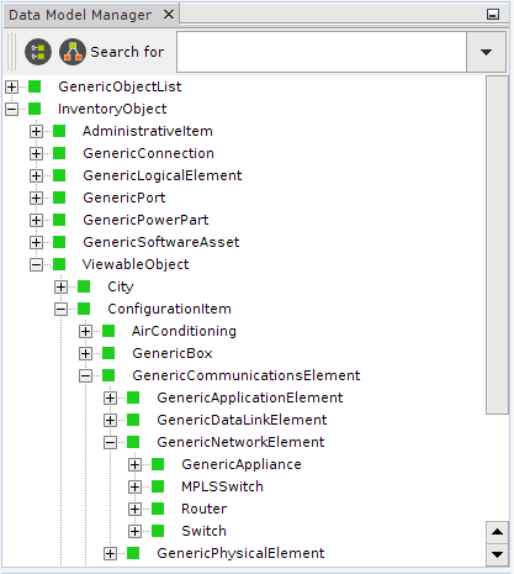
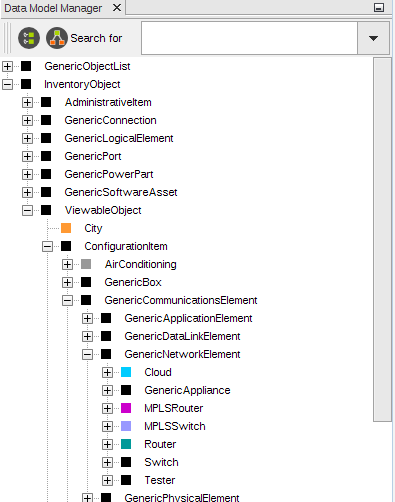
Added documentation for concatenated virtual circuits, grouped actions, commitOnExecute for tasks. Some screenshots updated. Some typos fixed

Changed region(s): [[0.0, 0.0, 1.0, 1.0]]

diff --git a/docs/user_manual/user_manual.tex b/docs/user_manual/user_manual.tex
@@ -5,7 +5,7 @@
 %Metadata
 \title{Kuwaiba Open Network Inventory User's Manual}
 \author{Neotropic SAS}
-\date{21.08.2017}
+\date{15.01.2018}
 
 %Imports
 \usepackage{graphicx}
@@ -33,7 +33,7 @@
 	
 	
 	\begin{figure}[b]
-		\centering System Version \textbf{1.5}
+		\centering System Version \textbf{1.6}
 			
 		Visit \url{http://www.kuwaiba.org} for documentation, latest updates and upcoming events
 	\end{figure}
@@ -84,6 +84,8 @@
 				June 1st 2017 & Added documentation for Bookmarks, Update Center, Projects and new functions in the Relationship Explorer.\\
 				\midrule
 				June 30th 2017 & Added documentation for New (Multiple), New Special, New Special (Multiple) and New Special from Template actions. Updated documentation for Containment Hierarchy and Template Manager.\\
+				\midrule
+				January 15th 2018 & Adapted for version 1.6 (device layouts, synchronization manager, grouped actions, etc).\\
 				\bottomrule
 			\end{tabular}	
 				
@@ -124,9 +126,9 @@
 		\item \textbf{Other Non-physical:} mostly software-related assets, such as licenses or virtual machines.
 		\item \textbf{Administrative:} These are all those related to administrative tasks, human resources or commercial management. Customers, their services, SLAs (and related parameters like availability or throughput), sales and technical staff assigned to those services, vendors and states belong to this category.
 	\end{itemize}
-	The Kuwaiba desktop client is a set of views (trees, topologies, editors) that allows to put together these elements based on business rules and  user-defined models. Kuwaiba extends the concept of \textbf{CMDB} (Configuration Management Database, a place where you store objects that can hold configuration information or be subject to configuration themselves - so called Configuration Items- and their relationships)  and enables you to perform network design tasks, support capacity management and provisioning workflows and assist field and customer service teams to improve response times.\newline
+	The Kuwaiba desktop client is a set of views (trees, topologies, editors) that allows to put together these elements based on business rules and  user-defined models. Kuwaiba extends the concept of \textbf{CMDB} (Configuration Management Database, a place where you store objects that can hold configuration information or be subject to configuration themselves - so called Configuration Items- and their relationships)  and enables you to perform network design tasks, support capacity management and provisioning work flows and assist field and customer service teams to improve response times.\newline
 	
-	Kuwaiba helps you model your network according to your needs, no matter if you're an ISP, a carrier or just a guy with a large (or small!) IT infrastructure to manage. It's open source, under active development and new models are added every release. You can contribute to the project by providing technical insight on a particular technology, testing, translating or just sending your feedback through forums\footnote{Forums https://sourceforge.net/p/kuwaiba/discussion/} and mailing lists\footnote{mailing lists https://sourceforge.net/p/kuwaiba/mailman/}.
+	Kuwaiba helps you model your network according to your needs, no matter if you're an local ISP, a big carrier or just a guy with a large (or small!) IT infrastructure to manage. It's open source, under active development and new models are added every release. You can contribute to the project by providing technical insight on a particular technology, testing, translating or just sending your feedback through forums\footnote{Forums https://sourceforge.net/p/kuwaiba/discussion/} and mailing lists\footnote{mailing lists https://sourceforge.net/p/kuwaiba/mailman/}.
 	
 	\clearpage
 	\section{Connection to the Server}
@@ -138,7 +140,7 @@
 		\caption{Authentication window}
 		\label{fig:auth_window}
 	\end{figure}
-	The default connection settings should be enough if the server is running on the same computer  as the client. If that's not the case, open the Connection Settings window (figure~\ref{fig:connection_settings}).
+	The default connection settings should be enough if the server is running on the same computer as the client. If that's not the case, open the Connection Settings window (figure~\ref{fig:connection_settings}).
 	\begin{figure}[h!]
 		\centering
 		\includegraphics[width=0.5\linewidth]{img/connection_settings.png}
@@ -148,9 +150,9 @@
 	\begin{itemize}
 		\item \textbf{Server Address} Refers to the server IP address or canonical name.
 		\item \textbf{Server Port} is the port Glassfish (the application server) is listening to.
-		\item \textbf{WSDL Path} is the path within the application server the web service interface definition can be found. Usually this value should remain unchanged.
+		\item \textbf{WSDL Path} is the path within the application server the web service interface definition can be found. In most cases, this value shall remain unchanged.
 		\item \textbf{Protocol} is the transport protocol to be used. By default is HTTP, but is highly recommended to request your administrator to setup a secure connection, otherwise your credentials will be transmitted in plain text over the network.
-		\item \textbf{Disable hostname verification} is disabled by default and applies only to HTTPS connections. If checked, the hostname in the digital certificate does not have to have to match the hostname you've typed in the "Server Address" field. This is useful if, for example, you are trying to connect to a server using its IP address, but the certificate was generated using its FQDN. You won't have to change this option in most cases, unless you are testing.
+		\item \textbf{Disable host name verification} is disabled by default and applies only to HTTPS connections. If checked, the host name in the digital certificate does not have to have to match the host name you've typed in the "Server Address" field. This is useful if, for example, you are trying to connect to a server using its IP address, but the certificate was generated using its FQDN. You won't have to change this option in most cases, unless you are testing.
 	\end{itemize}
 	Except for the password, the last successful settings will be saved upon clicking OK.
 	\begin{framed} {\large \textbf{Important}} \\
@@ -160,7 +162,7 @@
 	\end{framed}
 	\begin{framed} {\large \textbf{Troubleshooting}}
 		\begin{itemize}
-			\item For a \textbf{\textcolor{red}{Can't contact backend}} error, check the Administrator's Manual Troubleshooting section.
+			\item For a \textbf{\textcolor{red}{Can't contact backend}} error, check the Administrator's Manual Troubleshooting section. This error is commonly associated with problems connecting to the database.
 			\item If you get a \textbf{\textcolor{red}{Connection refused}} error, check the connection settings and verify that the server is reachable and there isn't a firewall blocking the traffic to it.
 		\end{itemize}
 	\end{framed} 
@@ -186,11 +188,11 @@
 			\midrule
 			\includegraphics[width=0.5cm]{img/icon_bookmarks.png} & Create and manage Favorite Folders and Favorites\\
 			\midrule
-			\includegraphics[width=0.5cm]{img/icon_pools_manager.png} & Create and manage objects of the same type\\
+			\includegraphics[width=0.5cm]{img/icon_pools_manager.png} & Create and manage objects that don't have a place in the Navigation Tree\\
 			\midrule
 			\includegraphics[width=0.5cm]{img/icon_relationship_explorer.png} & Explore an object's relationships\\
 			\midrule
-			\includegraphics[width=0.5cm]{img/icon_special_children_explorer.png} & Explore the containment hierarchy used in models such as the physical layer model.\\
+			\includegraphics[width=0.5cm]{img/icon_special_children_explorer.png} & Explore the containment hierarchy used in models such as the Physical Layer model.\\
 			\midrule
 			\includegraphics[width=0.5cm]{img/icon_topology_designer.png} & Freely design network topologies\\
 			\midrule
@@ -214,7 +216,7 @@
 			\midrule
 			\includegraphics[width=0.5cm]{img/icon_contract_manager.png} & Manage support contracts, SLAs and more. \\
 			\midrule
-			\includegraphics[width=0.5cm]{img/icon_IPAM_manager.png} & Manage IPv4/IPv6 addresses and subnets\\
+			\includegraphics[width=0.5cm]{img/icon_IPAM_manager.png} & Manage IPv4/IPv6 resources, such as IP addresses and subnets\\
 			\midrule
 			\includegraphics[width=0.5cm]{img/icon_SDH_networks.png} & Manage Synchronous Digital Hierarchy resources\\
 			\midrule
@@ -228,7 +230,7 @@
 		
 	\clearpage
 	\section{Data Model Manager} \label{sec:data_model_manager}
-		One of the key features of Kuwaiba is that it is completely object-oriented\footnote{Object-oriented Programming https://en.wikipedia.org/wiki/Object-oriented\_programming}. It means that every business (Router, City, Port) and application (users, types) element is represented by an \textbf{Object} in the application and these objects are in turn product of a reality abstraction called \textbf{Class}. Likewise, every attribute is a \textbf{Field} in a class. The set of classes, attributes and relationships between them is called data model. There's a default data model, but you can customize it depending on your needs by adding, removing and modifying classes. To achieve this, use the Data Model Manager module (figure~\ref{fig:data_model_manager}).
+		One of the key features of Kuwaiba is that it is completely object-oriented\footnote{Object-oriented Programming https://en.wikipedia.org/wiki/Object-oriented\_programming}. It means that every business (Router, City, Port) and application (users, types) element is represented by an \textbf{Object} in the application and these objects are in turn product of a reality abstraction called \textbf{Class}. Likewise, every attribute is a \textbf{Field} in a class. The set of classes, attributes and relationships between them is called \textbf{Data Model}. There's a default data model, but you can customize it depending on your needs by adding, removing and modifying classes. To achieve this, use the Data Model Manager module (figure~\ref{fig:data_model_manager}).
 		\begin{figure}[h!]
 			\centering
 			\includegraphics[width=0.4\linewidth]{img/data_model_manager.png}
@@ -240,9 +242,9 @@
 			\begin{tabular}{cp{10cm}}
 				\includegraphics[width=0.7cm]{img/icon_data_model_default_layout.png} & Resets the tree to its initial position (that is, with two root nodes: \textbf{GenericObjectList} and \textbf{InventoryObject}).\\
 				\midrule
-				\includegraphics[width=0.7cm]{img/icon_data_model_class_hierarchy_view.png} & Opens a window with a graphical representation of the data model tree,  easier to navigate.\\
+				\includegraphics[width=0.7cm]{img/icon_data_model_class_hierarchy_view.png} & Opens a window with a graphical representation of the data model tree, easier to navigate.\\
 				\midrule
-				\includegraphics[width=5cm]{img/data_model_manager_search.png} & A shorcut to any class in the data model.\\
+				\includegraphics[width=5cm]{img/data_model_manager_search.png} & A shortcut to any class in the data model.\\
 			\end{tabular}
 			\caption{Data Model manager toolbar items}
 			\label{tab:data_model_manager_toolbar_icons}
@@ -251,7 +253,7 @@
 			The data model is represented as a tree because it's a hierarchical structure. Technically, it's a class hierarchy\footnote{Class Hierarchy https://en.wikipedia.org/wiki/Class\_hierarchy}. The top of the hierarchy (\textbf{InventoryObject}) is the most general type of element in the data model and its subclasses represent all the possible elements that will be treated as inventory assets. As you dig deeper into the tree, the classes become more and more specialized and each level inherits the attributes of the parent classes. This kind of structure has two purposes: First, it helps you to organize your classes based on what characteristics they have in common. Secondly, as you will see later in this manual, you can apply operations over top level classes, and they will be propagated to all subclasses. Another root of the data model tree is \textbf{GenericObjectList}, and its subclasses are all possible list types (see more details on the subject in the chapter \textbf{\nameref{sec:list_type_manager}}).\newline
 			
 			\begin{framed} {\large \textbf{Important}} \\
-					The \textbf{Properties} window allows you to modify the attributes of a selected object in a tree, list or view. If not already open, it's available from the Windows $\rightarrow$ Properties menu.
+					The \textbf{Properties} window allows you to modify the attributes of a selected object in a tree, list or view. If not already open, it's available from the Windows $\rightarrow$ Properties menu item.
 			\end{framed}
 			The properties of a class can be edited by using the \textbf{Properties} window, selecting a class from the tree (see figure~\ref{fig:properties_class_node}). 
 			\begin{figure}[h!]
@@ -303,6 +305,7 @@
 			\begin{framed} {\large \textbf{Important}}
 				It's highly recommended \textbf{\textcolor{red}{NOT}} to rename abstract core classes, as some of them are used internally to support many features and renaming them may turn the system unstable.
 			\end{framed}
+	    \pagebreak
 		\subsection{Class Hierarchy View}
 			The data model can also be displayed on a canvas to improve the visualization and navigation. You can perform the same actions available in the standard tree view. To use it, click on the \textit{Class Hierarchy View} icon \includegraphics[width=0.7cm]{img/icon_data_model_class_hierarchy_view.png}, as seen in the Table~\ref{tab:data_model_manager_toolbar_icons}.
 			\begin{table}[h!]
@@ -338,25 +341,27 @@
 				
 	\clearpage
 	\section{Containment Manager} \label{sec:containment_manager}
-	Another key concept in Kuwaiba is containment. It consists of the ability to define what kind of objects can be created within others. For example, a \textbf{Country} can be inside a \textbf{Continent}, but can't be inside a \textbf{Rack}. A \textbf{Port} is usually within a \textbf{Board}, and not inside a \textbf{City}. These business rules can be defined using the Containment Manager.
+	Another key concept in Kuwaiba is containment. It allows you to define what kind of objects can be created within others. For example, a \textbf{Country} can be inside a \textbf{Continent}, but can't be inside a \textbf{Rack}. A \textbf{Port} is usually within a \textbf{Board}, and not inside a \textbf{City}. These business rules can be defined using the Containment Manager.
 	
 	\subsection{Standard Containment Hierarchy} \label{sec:standard_containment_hierarchy}
 	The main window is divided in two panels (see figure~\ref{fig:standard_containment_manager}, zoom in the image to see the details). The one on the left is a tree that holds all the classes plus the \textbf{Navigation Tree Root}. The children of the left-side tree node are the possible classes that can be contained. In the figure~\ref{fig:standard_containment_manager} there are five nodes expanded: \textbf{City}, that has one node inside: \textbf{Building}. That means that below a given city, you will only be able to add \textbf{Building} objects. Likewise, inside a \textbf{Continent} you can only create instances of \textbf{Country}, and inside those instances, only objects of class \textbf{City}. Under the root of the Navigation Tree, only instances of \textbf{Continent} are to be created. Finally, only \textbf{OpticalPorts} are supported under \textbf{DWDMBoards}. If for your operation Continents are not relevant, or if your routers do not have boards, but only ports, simplify the hierarchy as much as you want to meet your needs. To remove a possible children class, just right-click on it and select “Remove”, and instances from that class will no longer be available to be added under the parent class, though the objects already created will remain linked to the respective parent objects.
 	
 	\begin{figure}[h!]
 		\centering
-		\includegraphics[width=0.8\linewidth]{img/standard_containment_manager.png}
-		\caption{Standard Containment Manager main window. Zoom in the image to see the details}
+		\includegraphics[width=0.7\linewidth]{img/standard_containment_manager.png}
+		\caption{Standard Containment Manager main window. Zoom in the image if necessary}
 		\label{fig:standard_containment_manager}
 	\end{figure}
 	
+	\newpage
+	
 	\subsection{Special Containment Hierarchy} \label{sec:special_containment_hierarchy}
-	The special containment hierarchy (see figure~\ref{fig:special_containment_manager}) is used to define containment rules for complex models. Most of the times you won't have to touch this, unless you are modeling new technologies and want to use containment relationships in your model. Unlike the standard containment hierarchy, special children can only be explored using the \textbf{\nameref{sec:extra_explorers_children_explorer}}. The Physical Layer model is a good example of how this feature can be used: A cable inside a conduit connecting two buildings: in this scenario to configure the hierarchy for a wire container, drag links like (ElectricalLink, OpticalLink, PowerLink, RadioLink or for simply used the GenericPhysicalLink) from the right panel to the WireContainer class in the left panel, and in this way using the \textbf{\nameref{sec:extra_explorers_children_explorer}} you can create special children for a conduit. This is preconfigured in new databases so you don't have to worry about it.
+	The special containment hierarchy (see figure~\ref{fig:special_containment_manager}) is used to define containment rules for complex models. Most of the times you won't have to touch this, unless you are modeling new technologies and want to use containment relationships in your model that express a concept, rather than an one-to-one representation of the real world (e.g. you can use the special containment to represent how wavelengths/lambdas travel inside a fiber strand). Unlike the standard containment hierarchy, special children can only be explored using the \textbf{\nameref{sec:extra_explorers_children_explorer}}. The Physical Layer model is a good example of how this feature can be used: A cable inside a conduit connecting two buildings: in this scenario to configure the hierarchy for a wire container, drag links like (ElectricalLink, OpticalLink, PowerLink, RadioLink or for simply used the GenericPhysicalLink) from the right panel to the WireContainer class in the left panel, and in this way using the \textbf{\nameref{sec:extra_explorers_children_explorer}} you can create special children for a conduit. This is preconfigured in new databases so you don't have to worry about it.
 	
 	\begin{figure}[h!]
 		\centering
 		\includegraphics[width=0.8\linewidth]{img/special_containment_manager.png}
-		\caption{Special Containment Manager main window. Zoom in the image to see the details}
+		\caption{Special Containment Manager main window. Zoom in the image if necessary}
 		\label{fig:special_containment_manager}
 	\end{figure}
 	
@@ -370,7 +375,7 @@
 			
 	\clearpage
 	\section{Navigation Tree} \label{sec:navigation_tree}
-	This module presents in a tree fashion the physical objects of your inventory organized according to the standard containment hierarchy defined presented in the previous chapter (see \textbf{\nameref{sec:containment_manager}}).
+	This module presents in a tree fashion the physical objects of your inventory organized according to the standard containment hierarchy presented in the previous chapter (see \textbf{\nameref{sec:containment_manager}}).
 	\begin{figure}[h!]
 		\centering
 		\includegraphics[width=0.4\linewidth]{img/navigation_tree.png}
@@ -390,7 +395,7 @@
 	\begin{figure}[h!]
 		\centering
 		\includegraphics[width=0.7\linewidth]{img/navigation_tree_context_menu.png}
-		\caption{Actions of selected \textbf{Rack} object}
+		\caption{Actions associated to the selected \textbf{Rack} object}
 		\label{fig:navigation_tree_context_menu}
 	\end{figure}
 	\begin{itemize}
@@ -410,20 +415,24 @@
 		\item \textbf{Edit:} Opens a Property Sheet to edit the attributes of the selected inventory object.
 		\item \textbf{Delete:} Deletes the object. This will fail if the object has an incoming relationship, for example, a \textbf{Port} connected to a cable.
 		\item \textbf{Reports:} The reports associated to the objects of this class. In this case, \textbf{Rack} has a report called \textbf{Rack Usage}. If no reports are associated, this entry will appear grayed out.
-		\item \textbf{Add to Favorites Folder:} All inventory objects can be added to an existing Favorite Folder. See more details in the chapter \textbf{\nameref{sec:favorites}}.
-		\item \textbf{Remove from Favorites Folder:} Removes the association between an object (favorite) and a Favorite Folder.
-		\item \textbf{Relate to service:} All inventory objects can be associated to an existing service. See more details in the chapter \textbf{\nameref{sec:service_manager}}.
-		\item \textbf{Release from Service:} Removes the association between an object(resource) and a service.
-		\item \textbf{Create Physical Connection:} Creates a physical connection between two nodes selected in the Navigation Tree. This action will be disabled unless only two nodes are selected. See more details in the chapter \textbf{\nameref{sec:physical_connections}}.
-		\item \textbf{Show Object View:} Opens the Object View to the selected object. See more details in the chapter \textbf{\nameref{sec:object_view_and_rack_view}}.
-		\item \textbf{Show Rack View:} Opens the Rack view of the selected object. This action is only available for racks. See more details in the chapter \textbf{\nameref{sec:object_view_and_rack_view}}.
+		\item \textbf{Relate To $\rightarrow$ Favorites Folder:} All inventory objects can be added to an existing Favorite Folder. See more details in the chapter \textbf{\nameref{sec:favorites}}.
+		\item \textbf{Release From $\rightarrow$ Favorites Folder:} Removes the association between the selected object and a Favorites Folder.
+		\item \textbf{Relate To $\rightarrow$ Service:} All inventory objects can be associated to an existing service. See more details in the chapter \textbf{\nameref{sec:service_manager}}.
+		\item \textbf{Release From $\rightarrow$ Service:} Removes the association between the selected object and a service.
+		\item \textbf{Show $\rightarrow$ Object View:} Opens the Object View to the selected object. See more details in the chapter \textbf{\nameref{sec:object_view_and_rack_view}}.
+		\item \textbf{Show $\rightarrow$ Device Layout} Shows how the selected object looks in the real life, according to the layout designed using the \nameref{sec:template_manager}. Be aware that the selected object must be an instance of a subclass of \textbf{GenericCommunicationsElement} or \textbf{GenericFrame} and that it must have an attribute called \textbf{model} so this action is enabled.
+		\item \textbf{Show $\rightarrow$ Rack View:} Opens the Rack view of the selected object. This action is only available for racks. See more details in the chapter \textbf{\nameref{sec:object_view_and_rack_view}}.
+		
+		\item \textbf{Relate To $\rightarrow$ Project:} All inventory objects can be a resource to an existing Project. See more details in the chapter \textbf{\nameref{sec:projects}}
+		\item \textbf{Release From $\rightarrow$ Project:} Removes a selected object (resource) from a Project.
+		\item \textbf{Relate To $\rightarrow$ Contract:} All inventory objects can be associated to an existing Contract. See more details in chapter \textbf{\nameref{sec:contract_manager}}
+		\item \textbf{Release From $\rightarrow$ Contract:} Removes the association between an object and a contract.
 		\item \textbf{Audit Trail:} This will display all the audit trail entries for the selected object, that is, all the changes made to it.
-		\item \textbf{Relate to Project:} All inventory objects can be a resource to an existing Project. See more details in the chapter \textbf{\nameref{sec:projects}}
-		\item \textbf{Release from Project:} Removes a selected object (resource) from a Project.
-		\item \textbf{Relate to Contract:} All inventory objects can be associated to an existing Contract. See more details in chapter \textbf{\nameref{sec:contract_manager}}
-		\item \textbf{Release from Contract:} Removes the association between an object and a contract.
+		\item \textbf{Diagnostics $\rightarrow$ Check Connections Integrity: } When you create a connection in the \nameref{sec:object_view_and_rack_view}, the parent of such connection is the object associated to the view. If you happen to move one of the endpoints of that connections to a parent outside that object, the connections might not show up again correctly in any view, so you must execute this action on the former parent, and the connections will be placed (and displayed) in the right place. It is expected that in future versions, this action expands its scope to diagnose some other possible integrity problems that could have been caused by custom task scripts or synchronization routines.
+		\item \textbf{Create Physical Connection:} Creates a physical connection between \textbf{two} nodes selected in the Navigation Tree. This action will be disabled unless only two nodes are selected. See more details in the chapter \textbf{\nameref{sec:physical_connections}}.
 		\item \textbf{Open an Explorer from Here:} Opens a Navigation tree whose root node will be the selected object. Useful when you want to explore an object with as many containment levels below.
-		\item \textbf{Show More Information:} Shows the database id of the selected object. Useful for troubleshooting purposes. It will also show the object's complete containment structure. Note that the id can be copied and used in the \textbf{\nameref{sec:querying}} to create queries.
+		\item \textbf{Show More Information:} Shows the database id of the selected object. Useful for troubleshooting purposes. It will also show the object's complete containment structure. Note that the id can be used as search criteria in the \textbf{\nameref{sec:querying}}.
+		\pagebreak
 			\begin{figure}[h!]
 				\centering
 				\includegraphics[width=\linewidth]{img/action_show_object_id.png}
@@ -434,10 +443,10 @@
 	\begin{framed} {\large \textbf{Important}}
 		\begin{itemize}
 			\item Remember that you can always open the Properties window by selecting the main menu option Windows $\rightarrow$ Properties.
-			\item You can change the name of an object in-line by pressing F2 on a selected node.
+			\item You can change the name of an object in-line by pressing F2 on a selected node (this trick will work on most modules).
 		\end{itemize}
 	\end{framed}
-	\subsection{Relationships and Special Children Explorer} \label{sec:extra_explorers}
+	\subsection{Relationships and Special Children Explorers} \label{sec:extra_explorers}
 	Apart from the main navigation tree, there are also two explorers that are very useful to navigate through domain-specific models. Both explorers can be launched from the Tools $\rightarrow$ Navigation menu or using the icons \includegraphics[width=0.5cm]{img/icon_relationship_explorer.png} and \includegraphics[width=0.5cm]{img/icon_special_children_explorer.png}.
 
 	\subsubsection{Relationship Explorer} \label{sec:extra_explorers_relationship_explorer}
@@ -450,7 +459,7 @@
 			\label{fig:navigation_tree_relationship_explorer}
 		\end{figure}
 		
-		In the Relationships Explorer you have a toolbar with a button that allows you to navigate through the special relationships using a graphical view. You can open the canvas figure~\ref{fig:graphical_representation_relationships} just right click on the icon \includegraphics[width=0.5cm]{img/icon_graphical_representation_relationships.png}		
+		The Relationships Explorer has a toolbar with a button that allows you to navigate through the special relationships using a canvas. To open the canvas (figure~\ref{fig:graphical_representation_relationships}) use the button \includegraphics[width=0.5cm]{img/icon_graphical_representation_relationships.png}.
 						
 		\begin{figure}[h!]
 			\centering
@@ -458,8 +467,6 @@
 			\caption{Special relationships canvas}
 			\label{fig:graphical_representation_relationships}
 		\end{figure}
-			
-		In the Figure~\ref{fig:graphical_representation_relationships} there's a toolbar with a set of options listed in the Table~\ref{tab:graphical_representation_relationships_toolbar_icons}.
 			
 		\begin{table}[h!]
 			\centering
@@ -478,7 +485,7 @@
 		\end{table}
 			
 		\subsubsection{Special Children Explorer} \label{sec:extra_explorers_children_explorer}							
-		The special children are children as in the containment hierarchy concept, but used in domain-specific models, which gives them particular behavior depending on the situation (that is, they can't be handled as simple objects in the navigation tree because, for example, deleting them may require to perform tasks other than just removing the object from the database as they make part of a complex workflow). This is the case of the cables inside a conduit connecting two buildings. You can find more details about this scenario in the chapter \textbf{\nameref{sec:physical_connections}}.
+		The special children are children as in the containment hierarchy concept, but used in domain-specific models, which gives them particular behavior depending on the situation (that is, they can't be handled as simple objects in the navigation tree because, for example, deleting them may require to perform tasks other than just removing the object from the database as they make part of a complex work flow). This is the case of the cables inside a conduit connecting two buildings. You can find more details about this scenario in the chapter \textbf{\nameref{sec:physical_connections}}.
 						
 		\begin{figure}[h!]
 			\centering
@@ -920,10 +927,9 @@
 	\begin{figure}[h!]
 		\centering
 		\includegraphics[width=0.6\linewidth]{img/actions_object_and_rack_views.png}
-		\caption{Object View and Rack View actions in an object's context menu}
+		\caption{Show Object and Rack View actions in the Navigation Tree context menu}
 		\label{fig:actions_object_and_rack_views}
 	\end{figure}
-	\newpage
 	\subsection{Object View} \label{sec:default_view}
 		A view is a graphical representation of what's inside an object. All instances (objects) of subclasses of \textbf{ViewableObject} have an Object View that displays the direct children of the selected node. Most objects, except logical and administrative assets and a few physical ones such as slots and ports are subclasses of \textbf{ViewableObject}. To access this view, select a node in the navigation tree right-click on it and click on the action Show Object View. You may open as many object views as you want (prior to version 1.5, you had only one Object View window that was updated everytime you selected an object).
 		\begin{figure}[h!]
@@ -1242,7 +1248,11 @@
 						\label{fig:l1_example_2_patches}
 					\end{figure}
 					\begin{framed} {\large \textbf{Important}}\\
-							Remember to use an \textbf{OpticalLink} instead of an \textbf{ElectricalLink}.							
+						\begin{itemize}
+							\item 							Use an \textbf{OpticalLink} instead of an \textbf{ElectricalLink} if the connection represents a fiber strand.
+							\item The color of the connections (logical and physical) is taken from the color assigned to the class in the \nameref{sec:data_model_manager}.
+						\end{itemize}
+						
 					\end{framed}
 					\item There's still one last step: The ports 1-Front and 1-Back in each ODF are not yet bridged. To do this, we just have to right-click any of the two ports on each ODF and select the option \textit{Connect Mirror Port...}. A mirror port is basically a direct connection between two ports. A cable is a separate object in Kuwaiba, a mirror connection is not even an object, it is just a relationship between a port an another with the same parent (that is, a sibling). You can see it as a backplane connection.
 					\begin{figure}[h!]
@@ -1595,7 +1605,7 @@
 		\begin{figure}[h!]
 			\centering
 			\includegraphics[width=0.6\linewidth]{img/contract_manager_release_from_contract.png}
-			\caption{Removing the association}
+			\caption{Removing the association between a resource and a contract}
 			\label{fig:contract_manager_release_from_contract}
 		\end{figure}
 		
@@ -1621,9 +1631,11 @@
 				\midrule
 				\textbf{enabled} & Is this task enabled? \\
 				\midrule
+				\textbf{commitOnExecute} & Should the changes made in the database with this task be committed? Use this feature with care, as you can break things if your code is wrong. By default, this option is set to \textbf{false}.\\
+				\midrule
 				\textbf{script} & The Groovy script to be executed by this task.\\
 				\midrule
-				\textbf{startTime} & The exact time and date this task should start its execution. Applicable only to tasks with \textit{executionType} set to Loop. 
+				\textbf{startTime} & The exact time and date this task should start its execution. Applicable only to tasks with \textit{executionType} set to \textbf{Loop}. 
 				\textbf{Not used yet}. \\
 				\midrule
 				\textbf{everyXMinutes} & After the starting time, at which interval should this task be executed? Applicable only to tasks with \textit{executionType} set to Loop. \textbf{Not used yet}.\\
@@ -1688,7 +1700,7 @@
 		This module allows to create end-to-end virtual circuits and all other logical entities required by the SDH protocol\footnote{SDH Graphical Overview http://www.cisco.com/c/en/us/support/docs/optical/synchronous-digital-hierarchy-sdh/28327-sdh-28327.html}. Let's introduce some concepts first. See figure~\ref{fig:sdh_module_description} for sample connection that illustrate the following terms.
 		\begin{enumerate}
 			\item \textbf{TransportLink:} A point-to-point logical connection that represents a single STMX. By default, the \textbf{TransportLinks} included in Kuwaiba are SMT1, STM4, STM16, STM64 and STM256.
-			\item \textbf{ContainerLink:} It's a  logical connection that may or may not have multiple hops and connects ports within the boundaries of the transport network. A \textbf{ContainerLink} ends where at least one \textbf{TransporLink} ends, but in its path, the \textbf{ContainerLink} may have used many \textbf{TransportLinks}. In simple terms, a ContainerLink is an SDH virtual circuit. By default there are 5 types of ContainerLinks defined: VC12, VC3, VC4, VC4x4 and VC4x16. The latter two provide support for concatenation.
+			\item \textbf{ContainerLink:} It's a  logical connection that may or may not have multiple hops and connects ports within the boundaries of the transport network. A \textbf{ContainerLink} ends where at least one \textbf{TransporLink} ends, but in its path, the \textbf{ContainerLink} may have used many \textbf{TransportLinks}. In simple terms, a ContainerLink is an SDH virtual circuit. By default there are 5 types of ContainerLinks defined: VC12, VC3, VC4, VC4-04 and VC4-16. The latter two provide support for concatenation, but you can create your own constructions.
 			\item \textbf{TributaryLink:} Objects of this type are not circuits themselves, they rather use actual virtual circuits (ContainerLinks) and end in the ports where the SDH service is delivered to the customer (usually tributary ports).
 		\end{enumerate}
 		In short, Transport and ContainerLinks provide the foundations for the hierarchy, while the TributaryLinks provide information about where the circuits are delivered (that is, what are the endpoints of the connections). For detailed information about the data model portion devoted to SDH, read the document \textit{SDH Model and Tools}.
@@ -1883,7 +1895,46 @@
 		\begin{framed} {\large \textbf{Important}}\\
 			As an exercise for the reader, create Container and TributaryLinks using the alternate STM4-based route.
 		\end{framed}	
-		
+		\subsection{Concatenated Containers and Links}
+		The classic container hierarchy is no longer suitable to transport variable bit rate, packet-oriented traffic, and that's why virtual circuit concatenation came to be. In Kuwaiba it is possible to concatenate VC4, VC3 and VC12 to provide the bandwidth of your choice. These structures not necessarily have to match the ones provided by the actual SDH network, but they can be useful to effectively model many scenarios like Ethernet/IP over SDH. To create concatenated TributaryLinks or ContainerLinks, simply follow these steps:
+		\begin{enumerate}
+			\item Go to the \nameref{sec:data_model_manager} and search for the appropriate super class to create your new virtual container link.
+				\begin{figure}[h!]
+					\centering
+					\includegraphics[width=0.4\linewidth]{img/sdh_module_core_classes.png}
+					\caption{Superclasses where the new structures should be created (zoom in to read better)}
+					\label{fig:sdh_module_tributary_link_report}
+				\end{figure}
+				\item Create the structure (TributaryLink or ContainerLink) following this naming convention: \textbf{VC[4/3/12]-[02-N]TributaryLink} for TributaryLinks and \textbf{VC[4/3/12]-[02-N]} for ContainerLinks. For example, if you want to create an TributaryLink that represents five VC12 concatenated, you would have to create a class called \textbf{VC12-05TributaryLink} under \textbf{GenericSDHLowOrderTributaryLink}, or, if you were to create a ContainerLink to represent seven concatenated VC4 (enough to transport a 1 Gbps stream), the class should be called \textbf{VC4-07} under \textbf{GenericSDHHighOrderContainerLink}.
+				 
+				\begin{figure}[h!]
+					\centering
+					\includegraphics[width=0.4\linewidth]{img/sdh_module_concatenated_circuits.png}
+					\caption{Superclasses where the new structures should be created (zoom in to read better)}
+					\label{fig:sdh_module_tributary_link_report}
+				\end{figure}
+				\begin{framed} {\large \textbf{Important}}\\
+					\begin{itemize}
+						\item If you create a TributaryLink, you must \textbf{always} create the ContainerLink counterpart. In our example, you must also create a class called \textbf{VC12-05} under \textbf{GenericSDHLowOrderContainerLink}.
+						\item Don't forget to deselect the "In Design Stage" attribute in each class if you want to make it available for immediate use.
+						\item Also, use the classes' displayName attribute to show a friendly name to the end user
+					\end{itemize}
+				\end{framed}
+			\item Use the newly created classes as you would use any of the others in the SDH wizards.
+			\begin{figure}[h!]
+				\centering
+				\includegraphics[width=0.7\linewidth]{img/sdh_module_wizard_concatenated_tributary.png}
+				\caption{SDH wizard with the new concatenated TributaryLink}
+				\label{fig:sdh_module_tributary_link_report}
+			\end{figure}
+			\begin{figure}[h!]
+				\centering
+				\includegraphics[width=0.7\linewidth]{img/sdh_module_wizard_concatenated_container.png}
+				\caption{SDH wizard with the new concatenated ContainerLink}
+				\label{fig:sdh_module_tributary_link_report}
+			\end{figure}
+			
+		\end{enumerate}
 		\clearpage
 		\section{IP Address Manager}\label{sec:ip_address_manager}
 		The IP Address Manager(IPAM) lets you store and manage your subnets and their IP addresses; Kuwaiba lets you integrate your IPAM to the whole network inventory allowing to relate the created subnets to existing VLANs or services, and also allowing you to associate the IP addresses of a subnet to an existing network device or service.
